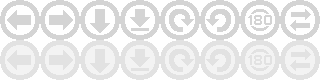
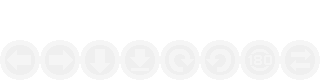
added background

Changed region(s): [[0.0, 0.0, 1.0, 0.5]]

diff --git a/core/src/com/tetrea/game/screen/BattleScreen.kt b/core/src/com/tetrea/game/screen/BattleScreen.kt
@@ -54,12 +54,13 @@ class BattleScreen(game: TetreaGame) : BaseScreen(game) {
     override fun render(dt: Float) {
         super.render(dt)
 
-        Gdx.gl.glClearColor(40 / 255f, 40 / 255f, 40 / 255f, 1f)
+        Gdx.gl.glClearColor(0f, 0f, 0f, 1f)
         Gdx.gl.glClear(GL20.GL_COLOR_BUFFER_BIT)
 
         game.batch.projectionMatrix = cam.combined
         game.batch.begin()
 
+        game.batch.draw(game.res.getTexture("battle_bg_sky"), 0f, 0f)
         tetris.render(game.batch)
 
         game.batch.end()

diff --git a/core/src/com/tetrea/game/res/Color.kt b/core/src/com/tetrea/game/res/Color.kt
@@ -6,6 +6,6 @@ object Color {
     val GAME_WHITE = Color.WHITE
     val GAME_YELLOW = Color(1f, 216 / 255f, 0f, 1f)
     val GAME_LIGHT_BLUE = Color(0f, 220 / 255f, 1f, 1f)
-    val GAME_PURPLE = Color(190 / 255f, 70 / 255f, 1f, 1f)
-    val GAME_ORANGE = Color(1f, 135 / 255f, 50f, 1f)
+    val GAME_PURPLE = Color(1f, 30 / 255f, 230 / 255f, 1f)
+    val GAME_ORANGE = Color(1f, 135 / 255f, 50f / 255f, 1f)
 }

diff --git a/core/src/com/tetrea/game/res/Resources.kt b/core/src/com/tetrea/game/res/Resources.kt
@@ -50,6 +50,7 @@ class Resources : Disposable {
         loadTexture("tetris_board_bg")
         loadTexture("apm_icon")
         loadTexture("pps_icon")
+        loadTexture("battle_bg_sky")
 
         tetrisSheet = getTexture("tetris").split(SQUARE_SIZE, SQUARE_SIZE)
         tetrisButtons = getTexture("tetris_buttons").split(TETRIS_BUTTON_SIZE, TETRIS_BUTTON_SIZE)
